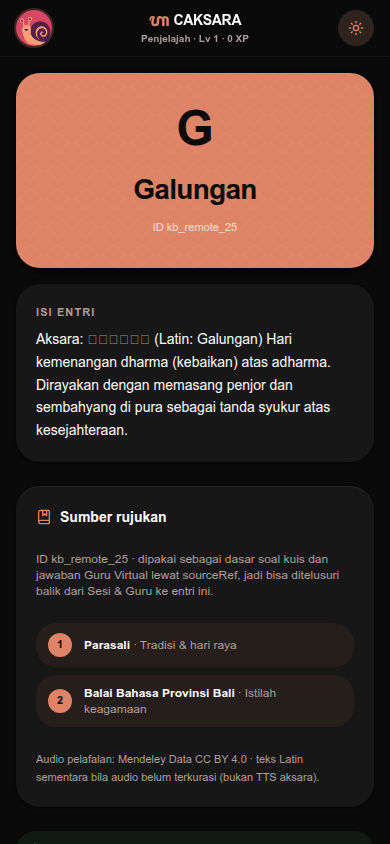
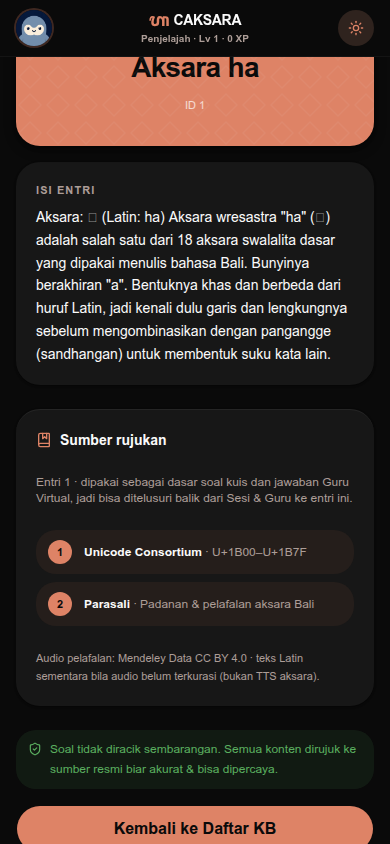
fix(pr65-review): kbCategorySchema SSOT, cache-first + offline cache, empty reachable, tautan balik Sesi/Guru (Refs #25)
STANDARDS:
- kb-remote.ts: KNOWN_CATEGORIES manual dihapus → kbCategorySchema.safeParse (SSOT kb-data.ts)
- zod/kb.ts: level double-coerce (union+pipe) → z.coerce.number tunggal; setarakan perilaku (test 24 pass)
- kb-source.ts: komentar remote-first → cache-first (selaras kode: cache 10 mnt dulu, remote saat dingin); tidak ada perubahan perilaku online

SPEC:
- kb-source.ts offline (ADR-0008 KB cache offline): pakai cache segar dulu, baru lokal; test offline-cache baru
- showEmpty reachable: test remote-kosong + local:[] → entries [] + loadError (fallback dipertahankan; empty tercapai bila KB lokal benar-benar kosong)
- Trace balik Sesi/Guru: tombol kecil 'Buka di Basis Pengetahuan →' di feedback kuis (sourceRef→entryId) + jawaban guru (entryId) → KbDetail via view state (state-driven, tanpa rute baru)
- Error variant: banner inline KbNotice (role=alert) dipertahankan — disengaja, materi lokal tetap terbaca (bukan layar tersendiri)

Debt: #66 error-screen tersendiri, #67 deep-link /kb/:id

Verify: tsx --test kb 24 pass; oxlint exit 0; oxfmt clean; build exit 0; proof: kb-list-390, kb-empty-search-390, kb-quiz-backlink-390, kb-detail-from-quiz-390, kb-guru-backlink-390, kb-detail-from-guru-390

diff --git a/apps/web/src/features/kb/kb-source.test.ts b/apps/web/src/features/kb/kb-source.test.ts
@@ -37,7 +37,7 @@ function deps(over: Partial<KbFetchDeps> = {}): KbFetchDeps {
   };
 }
 
-describe("fetchKbEntries — remote-first, local fallback #25", () => {
+describe("fetchKbEntries — cache-first, local fallback #25", () => {
   test("remote valid → pakai remote, tulis cache", async () => {
     let wrote: unknown = null;
     const out = await fetchKbEntries({
@@ -64,20 +64,31 @@ describe("fetchKbEntries — remote-first, local fallback #25", () => {
   test("remote invalid semua → fallback lokal + loadError true", async () => {
     const out = await fetchKbEntries({
       // eslint-disable-next-line require-await
-      ...deps({ queryRemote: async () => [{ id: -1 }] }),
+      ...deps({ queryRemote: async () => [{ id: -1 }] as unknown as SupabaseKbRow[] }),
       local: [localRow],
     });
     assert.equal(out.source, "local");
     assert.equal(out.loadError, true);
   });
+
+  test("remote eksplisit kosong + local dikosongkan → entries kosong (cabang empty reachable)", async () => {
+    // eslint-disable-next-line require-await
+    const out = await fetchKbEntries({
+      ...deps({ queryRemote: async () => [] }),
+      local: [],
+    });
+    assert.deepEqual(out.entries, []);
+    assert.equal(out.loadError, true);
+  });
 });
 
 describe("fetchKbEntries — offline/cache/down #25", () => {
-  test("offline → lokal + offline true tanpa query remote", async () => {
+  test("offline tanpa cache → lokal + offline true tanpa query remote", async () => {
     let queried = false;
     const out = await fetchKbEntries({
       ...deps({
         online: false,
+        readCache: () => null,
         // eslint-disable-next-line require-await
         queryRemote: async () => {
           queried = true;
@@ -89,6 +100,27 @@ describe("fetchKbEntries — offline/cache/down #25", () => {
     assert.equal(queried, false);
     assert.equal(out.offline, true);
     assert.equal(out.source, "local");
+  });
+
+  test("offline pakai cache segar dulu (ADR-0008 KB cache offline)", async () => {
+    const cached: SupabaseKbRow[] = [remoteRow];
+    let queried = false;
+    const out = await fetchKbEntries({
+      ...deps({
+        online: false,
+        readCache: () => cached,
+        // eslint-disable-next-line require-await
+        queryRemote: async () => {
+          queried = true;
+          return [];
+        },
+      }),
+      local: [localRow],
+    });
+    assert.equal(queried, false);
+    assert.equal(out.offline, true);
+    assert.equal(out.source, "cache");
+    assert.equal(out.entries[0]?.title, "Aksara ka");
   });
 
   test("tanpa backend → cache lokal bila ada", async () => {

diff --git a/apps/web/src/features/teacher/teacher.tsx b/apps/web/src/features/teacher/teacher.tsx
@@ -15,17 +15,16 @@ interface Message {
   sources?: TeacherReply["sources"];
   title?: string;
   glyph?: string;
+  entryId?: string;
   suggestions?: string[];
   streaming?: boolean;
 }
-
 let msgId = 0;
 const nextId = () => ++msgId;
 
 const GREETING =
   "Rahajeng! Aku Bedawang Nala, guru virtual CAKSARA. Tanya apa aja seputar aksara, bahasa, atau budaya Bali, jawabanmu selalu kutunjukkan sumbernya biar tidak asal.";
-
-export function TeacherChat() {
+export function TeacherChat({ onOpenEntry }: { onOpenEntry?: (entryId: string) => void } = {}) {
   const [messages, setMessages] = useState<Message[]>([
     { id: nextId(), role: "guru", content: GREETING, full: GREETING },
   ]);
@@ -58,7 +57,7 @@ export function TeacherChat() {
           sources: reply.sources,
           title: reply.title,
           glyph: reply.glyph,
-          suggestions: reply.outside ? reply.suggestions : undefined,
+          entryId: reply.entryId,
           streaming: true,
         },
       ]);
@@ -145,7 +144,13 @@ export function TeacherChat() {
           className="mx-auto w-full flex-1 space-y-3 overflow-y-auto px-4 py-4 lg:px-6"
         >
           {messages.map((msg, idx) => (
-            <Bubble key={msg.id} msg={msg} index={idx} onSuggest={(s) => send(s)} />
+            <Bubble
+              key={msg.id}
+              msg={msg}
+              index={idx}
+              onSuggest={(s) => send(s)}
+              onOpenEntry={onOpenEntry}
+            />
           ))}
           {thinking && <ThinkingBubble />}
           {messages.some((m) => m.streaming) && !thinking && (
@@ -242,10 +247,12 @@ function Bubble({
   msg,
   index,
   onSuggest,
+  onOpenEntry,
 }: {
   msg: Message;
   index: number;
   onSuggest: (s: string) => void;
+  onOpenEntry?: (entryId: string) => void;
 }) {
   const isUser = msg.role === "user";
   const isDone = !msg.streaming;
@@ -291,6 +298,15 @@ function Bubble({
                 </li>
               ))}
             </ul>
+            {msg.entryId && onOpenEntry && (
+              <button
+                type="button"
+                onClick={() => onOpenEntry(msg.entryId as string)}
+                className="mt-1.5 text-[11px] font-semibold text-primary underline-offset-2 hover:underline"
+              >
+                Buka di Basis Pengetahuan →
+              </button>
+            )}
           </div>
         )}
 

diff --git a/apps/web/src/features/kb/kb-remote.ts b/apps/web/src/features/kb/kb-remote.ts
@@ -1,5 +1,5 @@
 import { kbRemoteRowSchema } from "../../lib/zod/kb";
-import { kbEntrySchema } from "./kb-data";
+import { kbCategorySchema, kbEntrySchema } from "./kb-data";
 import type { KbEntry } from "./kb-data";
 
 export interface SupabaseKbRow {
@@ -26,17 +26,12 @@ function splitSources(source: string): { nama: string; ket: string }[] {
   return out.length > 0 ? out : [{ nama: source.trim() || "Rujukan KB", ket: "Rujukan KB" }];
 }
 
-const KNOWN_CATEGORIES: Record<string, boolean> = {
-  wresastra: true,
-  kosakata: true,
-  budaya: true,
-};
-
 /**
- * Ubah baris kb_entries Supabase menjadi KbEntry lokal.
- * ID dipertahankan apa adanya (tanpa prefix) supaya detail bisa ditelusuri
- * balik dari Sesi & Guru; baris tak valid atau berkategori asing dibuang
- * (bukan dipetakan diam-diam) agar daftar tidak menampilkan data semu.
+ * Ubah baris kb_entries Supabase menjadi KbEntry lokal — SSOT kategori:
+ * kbCategorySchema (kb-data.ts). ID dipertahankan apa adanya (tanpa prefix)
+ * supaya detail bisa ditelusuri balik dari Sesi & Guru; baris tak valid atau
+ * berkategori asing dibuang (bukan dipetakan diam-diam) agar daftar tidak
+ * menampilkan data semu.
  */
 export function parseSupabaseKbRows(rows: SupabaseKbRow[] | null | undefined): KbEntry[] {
   if (!rows || rows.length === 0) return [];
@@ -44,7 +39,7 @@ export function parseSupabaseKbRows(rows: SupabaseKbRow[] | null | undefined): K
   for (const row of rows) {
     const parsed = kbRemoteRowSchema.safeParse(row);
     if (!parsed.success) continue;
-    if (!KNOWN_CATEGORIES[parsed.data.category]) continue;
+    if (!kbCategorySchema.safeParse(parsed.data.category).success) continue;
     const sources = splitSources(parsed.data.source);
     const entry = kbEntrySchema.safeParse({
       id: String(parsed.data.id),

diff --git a/apps/web/src/features/quiz/quiz-feedback.tsx b/apps/web/src/features/quiz/quiz-feedback.tsx
@@ -6,11 +6,20 @@ import { XP_PER_CORRECT } from "../../lib/game-rules";
 interface QuizFeedbackProps {
   isCorrect: boolean;
   explanation?: string;
+  /** sourceRef mentah soal ("kb_x · Basis Pengetahuan") — tautan balik kecil opsional. */
+  sourceRef?: string;
+  onOpenKbEntry?: (entryId: string) => void;
   onNext: () => void;
   isLast: boolean;
 }
-
-export function QuizFeedback({ isCorrect, explanation, onNext, isLast }: QuizFeedbackProps) {
+export function QuizFeedback({
+  isCorrect,
+  explanation,
+  sourceRef,
+  onOpenKbEntry,
+  onNext,
+  isLast,
+}: QuizFeedbackProps) {
   return (
     <div
       role="status"
@@ -44,6 +53,15 @@ export function QuizFeedback({ isCorrect, explanation, onNext, isLast }: QuizFee
             )}
           </div>
           {explanation && <p className="mt-1 text-sm text-muted-foreground">{explanation}</p>}
+          {sourceRef && onOpenKbEntry && (
+            <button
+              type="button"
+              onClick={() => onOpenKbEntry(sourceRef.split("·")[0]?.trim() ?? sourceRef)}
+              className="mt-1 text-[11px] font-semibold text-primary underline-offset-2 hover:underline"
+            >
+              Buka di Basis Pengetahuan →
+            </button>
+          )}
           {!isCorrect && (
             <p className="mt-2 inline-flex items-center gap-1.5 rounded-full bg-card px-2.5 py-1 text-xs font-medium text-muted-foreground ring-1 ring-border/60">
               <BookOpenCheck className="size-3.5 shrink-0 text-primary" />

diff --git a/apps/web/src/features/kb/kb-source.ts b/apps/web/src/features/kb/kb-source.ts
@@ -54,9 +54,11 @@ export function writeKbCache(rows: SupabaseKbRow[]): void {
 }
 
 /**
- * Ambil daftar KB #25: remote-first (kb_entries read-only publik), cache
- * 10 menit, fallback lokal KB_ENTRIES bila remote kosong/invalid/down.
- * Tidak pernah melempar — selalu kembalikan entri.
+ * Ambil daftar KB #25: cache-first 10 menit (kb_entries read-only publik),
+ * remote dicoba saat cache dingin, fallback lokal KB_ENTRIES bila remote
+ * kosong/invalid/down. Offline (ADR-0008: KB cache lokal untuk mode offline)
+ * memakai cache segar dulu sebelum lokal. Tidak pernah melempar — selalu
+ * kembalikan entri.
  */
 export async function fetchKbEntries(
   opts: { local?: KbEntry[] } & Partial<KbFetchDeps>,
@@ -66,7 +68,15 @@ export async function fetchKbEntries(
   const readCache = opts.readCache ?? readKbCache;
   const writeCache = opts.writeCache ?? writeKbCache;
 
-  if (!online) return { entries: local, source: "local", offline: true, loadError: false };
+  if (!online) {
+    const cached = readCache();
+    if (cached) {
+      const parsed = parseSupabaseKbRows(cached);
+      if (parsed.length > 0)
+        return { entries: parsed, source: "cache", offline: true, loadError: false };
+    }
+    return { entries: local, source: "local", offline: true, loadError: false };
+  }
 
   const hasBackend = opts.hasBackend ?? getSupabase() !== null;
   const queryRemote = opts.queryRemote ?? queryKbEntriesRemote;

diff --git a/apps/web/src/routes/_index.tsx b/apps/web/src/routes/_index.tsx
@@ -10,6 +10,7 @@ import { Dashboard } from "../features/dashboard/dashboard";
 import { OnboardingGate } from "../features/onboarding/onboarding-gate";
 import { KbDetail } from "../features/kb/kb-detail";
 import { KbList } from "../features/kb/kb-list";
+import { KB_ENTRIES } from "../features/kb/kb-data";
 import type { KbEntry } from "../features/kb/kb-data";
 import { ModuleDetail } from "../features/module/module-detail";
 import { ModuleMateri } from "../features/module/module-materi";
@@ -245,6 +246,10 @@ export default function Home() {
         onBack={() =>
           view.isLatihan ? setView({ kind: "home" }) : setView({ kind: "detail", mod: view.mod })
         }
+        onOpenKbEntry={(entryId) => {
+          const entry = KB_ENTRIES.find((e) => e.id === entryId);
+          if (entry) setView({ kind: "kb-detail", entry });
+        }}
       />
     );
   } else if (view.kind === "kb-detail") {
@@ -333,7 +338,14 @@ export default function Home() {
       />
     );
   } else if (navTab === "guru") {
-    content = <TeacherChat />;
+    content = (
+      <TeacherChat
+        onOpenEntry={(entryId) => {
+          const entry = KB_ENTRIES.find((e) => e.id === entryId);
+          if (entry) setView({ kind: "kb-detail", entry });
+        }}
+      />
+    );
   } else {
     content = (
       <ProfilPage

diff --git a/apps/web/src/features/quiz/quiz-shell.tsx b/apps/web/src/features/quiz/quiz-shell.tsx
@@ -38,6 +38,8 @@ interface QuizShellProps {
   initialHearts: number;
   onFinish: (score: { correct: number; total: number }, detail: QuizFinishDetail[]) => void;
   onBack: () => void;
+  /** Tautan balik kecil sourceRef → entri KB (deep-link /kb/:id bila rute ada). */
+  onOpenKbEntry?: (entryId: string) => void;
 }
 
 function QuestionBody({
@@ -178,7 +180,14 @@ function GameOver({ onRetry, onBack }: { onRetry: () => void; onBack: () => void
   );
 }
 
-export function QuizShell({ quiz, moduleId, initialHearts, onFinish, onBack }: QuizShellProps) {
+export function QuizShell({
+  quiz,
+  moduleId,
+  initialHearts,
+  onFinish,
+  onBack,
+  onOpenKbEntry,
+}: QuizShellProps) {
   const [session, dispatch] = useReducer(quizReducer, quiz, createSession);
   const [hearts, setHeartsState] = useState(initialHearts);
   const [gameOver, setGameOver] = useState(initialHearts <= 0);
@@ -385,6 +394,8 @@ export function QuizShell({ quiz, moduleId, initialHearts, onFinish, onBack }: Q
               current.explanation ??
               (current.sourceRef ? `Sumber: ${current.sourceRef}` : undefined)
             }
+            sourceRef={current.sourceRef}
+            onOpenKbEntry={onOpenKbEntry}
             onNext={handleNext}
             isLast={session.currentIndex === quiz.questions.length - 1}
           />

diff --git a/apps/web/src/features/teacher/teacher-data.ts b/apps/web/src/features/teacher/teacher-data.ts
@@ -6,6 +6,8 @@ export interface TeacherReply {
   sources: KbSource[];
   title?: string;
   glyph?: string;
+  /** ID entri KB asal jawaban — tautan balik kecil ke KbDetail (bila ada). */
+  entryId?: string;
   outside: boolean;
   suggestions?: string[];
 }
@@ -219,6 +221,7 @@ export function getTeacherReply(input: string): TeacherReply {
       title: best.title,
       glyph: best.glyph,
       sources: best.sources,
+      entryId: best.id,
       outside: false,
     };
   }

diff --git a/apps/web/src/lib/zod/kb.ts b/apps/web/src/lib/zod/kb.ts
@@ -11,9 +11,7 @@ export const kbRemoteRowSchema = z.object({
   title: z.string().trim().min(1),
   body: z.string().trim().min(1),
   source: z.string().trim().min(1),
-  level: z
-    .union([z.coerce.number().int().min(1).max(3), z.string()])
-    .pipe(z.coerce.number().int().min(1).max(3)),
+  level: z.coerce.number().int().min(1).max(3),
 });
 
 export type KbRemoteRow = z.infer<typeof kbRemoteRowSchema>;
